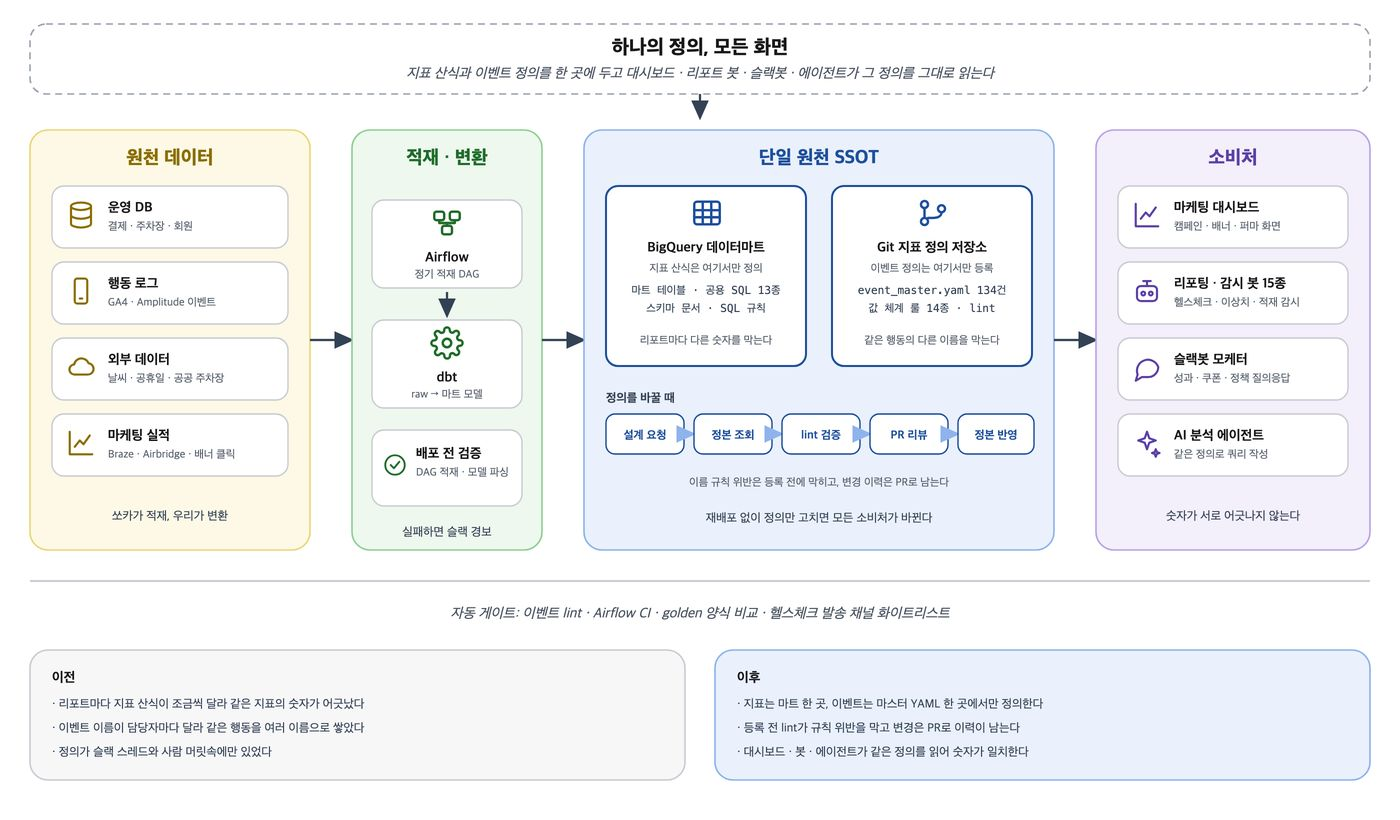
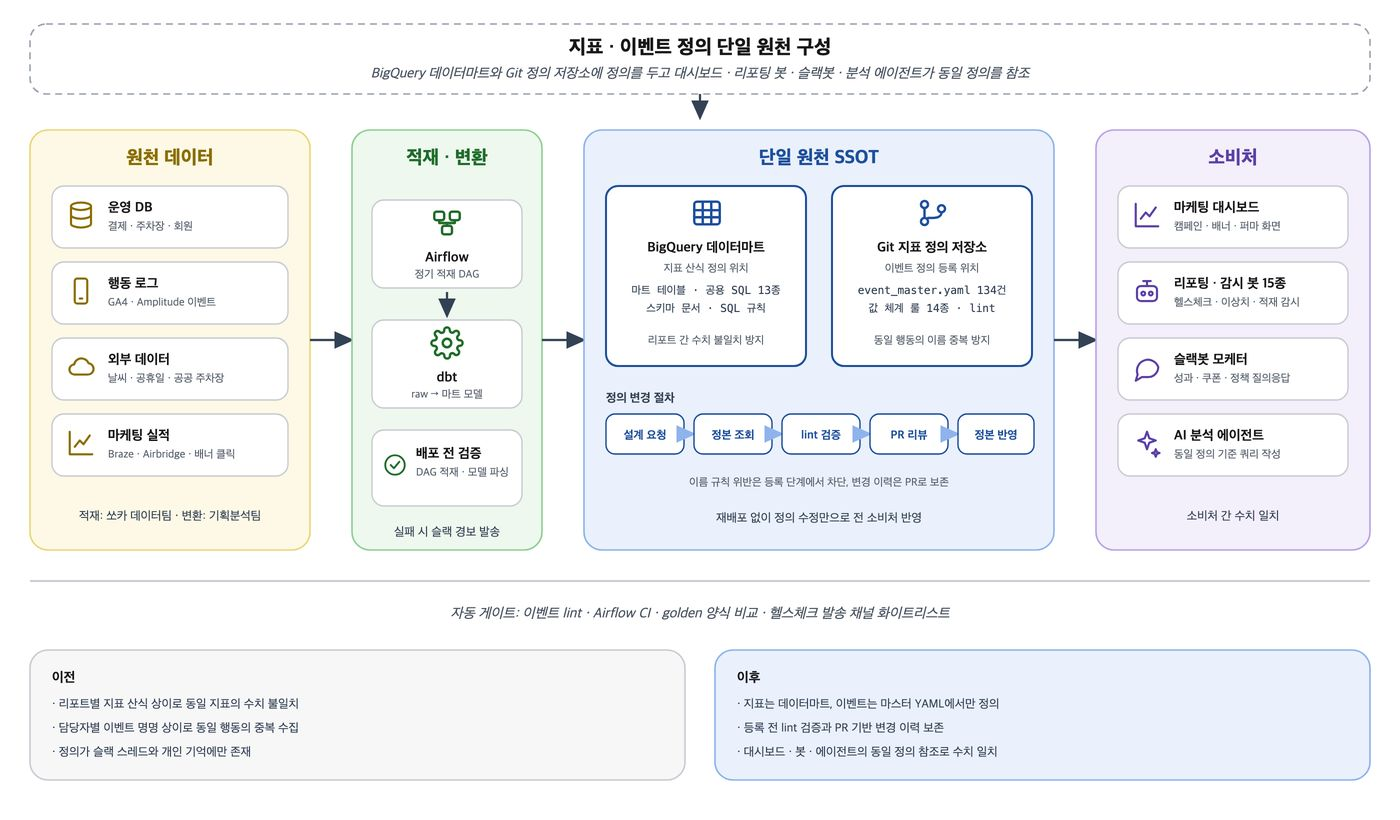
Report-style wording in diagrams, hide empty part panels under filters

diff --git a/build/diagrams/infra_arch.html b/build/diagrams/infra_arch.html
@@ -48,8 +48,8 @@
 
   <!-- 상단 배너 -->
   <rect x="30" y="24" width="1340" height="70" class="banner"/>
-  <text x="700" y="54" text-anchor="middle" class="bt">하나의 정의, 모든 화면</text>
-  <text x="700" y="78" text-anchor="middle" class="bs">지표 산식과 이벤트 정의를 한 곳에 두고 대시보드 · 리포트 봇 · 슬랙봇 · 에이전트가 그 정의를 그대로 읽는다</text>
+  <text x="700" y="54" text-anchor="middle" class="bt">지표 · 이벤트 정의 단일 원천 구성</text>
+  <text x="700" y="78" text-anchor="middle" class="bs">BigQuery 데이터마트와 Git 정의 저장소에 정의를 두고 대시보드 · 리포팅 봇 · 슬랙봇 · 분석 에이전트가 동일 정의를 참조</text>
   <path d="M700,94 L700,118" class="arrow"/>
 
   <!-- 원천 -->
@@ -59,7 +59,7 @@
   <rect x="52" y="262" width="236" height="62" class="node"/><use href="#i-phone" x="66" y="276" width="30" height="30" class="ic y"/><text x="108" y="288" class="nt">행동 로그</text><text x="108" y="306" class="ns">GA4 · Amplitude 이벤트</text>
   <rect x="52" y="338" width="236" height="62" class="node"/><use href="#i-cloud" x="66" y="352" width="30" height="30" class="ic y"/><text x="108" y="364" class="nt">외부 데이터</text><text x="108" y="382" class="ns">날씨 · 공휴일 · 공공 주차장</text>
   <rect x="52" y="414" width="236" height="62" class="node"/><use href="#i-chart" x="66" y="428" width="30" height="30" class="ic y"/><text x="108" y="440" class="nt">마케팅 실적</text><text x="108" y="458" class="ns">Braze · Airbridge · 배너 클릭</text>
-  <text x="170" y="520" text-anchor="middle" class="lab">쏘카가 적재, 우리가 변환</text>
+  <text x="170" y="520" text-anchor="middle" class="lab">적재: 쏘카 데이터팀 · 변환: 기획분석팀</text>
 
   <!-- 적재 · 변환 -->
   <path d="M310,340 L352,340" class="arrow"/>
@@ -69,7 +69,7 @@
   <path d="M447,292 L447,316" class="arrow"/>
   <rect x="372" y="320" width="150" height="88" class="node"/><use href="#i-gear" x="430" y="326" width="34" height="34" class="ic g"/><text x="447" y="382" text-anchor="middle" class="nt">dbt</text><text x="447" y="398" text-anchor="middle" class="ns">raw → 마트 모델</text>
   <rect x="372" y="430" width="150" height="76" class="node"/><use href="#i-check" x="382" y="452" width="26" height="26" class="ic g"/><text x="416" y="458" class="nt">배포 전 검증</text><text x="416" y="476" class="ns">DAG 적재 · 모델 파싱</text>
-  <text x="447" y="536" text-anchor="middle" class="lab">실패하면 슬랙 경보</text>
+  <text x="447" y="536" text-anchor="middle" class="lab">실패 시 슬랙 경보 발송</text>
 
   <!-- 단일 원천 -->
   <path d="M542,340 L584,340" class="arrow"/>
@@ -78,19 +78,19 @@
   <rect x="606" y="186" width="200" height="180" class="node hi"/>
   <use href="#i-table" x="690" y="196" width="34" height="34" class="ic b"/>
   <text x="706" y="252" text-anchor="middle" class="nt">BigQuery 데이터마트</text>
-  <text x="706" y="272" text-anchor="middle" class="ns">지표 산식은 여기서만 정의</text>
+  <text x="706" y="272" text-anchor="middle" class="ns">지표 산식 정의 위치</text>
   <text x="706" y="294" text-anchor="middle" class="mono">마트 테이블 · 공용 SQL 13종</text>
   <text x="706" y="312" text-anchor="middle" class="mono">스키마 문서 · SQL 규칙</text>
-  <text x="706" y="344" text-anchor="middle" class="ns">리포트마다 다른 숫자를 막는다</text>
+  <text x="706" y="344" text-anchor="middle" class="ns">리포트 간 수치 불일치 방지</text>
   <rect x="832" y="186" width="200" height="180" class="node hi"/>
   <use href="#i-git" x="916" y="196" width="34" height="34" class="ic b"/>
   <text x="932" y="252" text-anchor="middle" class="nt">Git 지표 정의 저장소</text>
-  <text x="932" y="272" text-anchor="middle" class="ns">이벤트 정의는 여기서만 등록</text>
+  <text x="932" y="272" text-anchor="middle" class="ns">이벤트 정의 등록 위치</text>
   <text x="932" y="294" text-anchor="middle" class="mono">event_master.yaml 134건</text>
   <text x="932" y="312" text-anchor="middle" class="mono">값 체계 룰 14종 · lint</text>
-  <text x="932" y="344" text-anchor="middle" class="ns">같은 행동의 다른 이름을 막는다</text>
+  <text x="932" y="344" text-anchor="middle" class="ns">동일 행동의 이름 중복 방지</text>
   <!-- 정의 변경 흐름 -->
-  <text x="606" y="402" class="lab" font-weight="700">정의를 바꿀 때</text>
+  <text x="606" y="402" class="lab" font-weight="700">정의 변경 절차</text>
   <rect x="606" y="414" width="78" height="40" class="step"/><text x="645" y="439" text-anchor="middle" class="stept">설계 요청</text>
   <path d="M684,434 L694,434" class="arrow soft"/>
   <rect x="694" y="414" width="78" height="40" class="step"/><text x="733" y="439" text-anchor="middle" class="stept">정본 조회</text>
@@ -100,8 +100,8 @@
   <rect x="870" y="414" width="78" height="40" class="step"/><text x="909" y="439" text-anchor="middle" class="stept">PR 리뷰</text>
   <path d="M948,434 L958,434" class="arrow soft"/>
   <rect x="958" y="414" width="76" height="40" class="step" fill="#1d4f9c"/><text x="996" y="439" text-anchor="middle" class="stept" fill="#fff">정본 반영</text>
-  <text x="819" y="486" text-anchor="middle" class="ns">이름 규칙 위반은 등록 전에 막히고, 변경 이력은 PR로 남는다</text>
-  <text x="819" y="522" text-anchor="middle" class="lab">재배포 없이 정의만 고치면 모든 소비처가 바뀐다</text>
+  <text x="819" y="486" text-anchor="middle" class="ns">이름 규칙 위반은 등록 단계에서 차단, 변경 이력은 PR로 보존</text>
+  <text x="819" y="522" text-anchor="middle" class="lab">재배포 없이 정의 수정만으로 전 소비처 반영</text>
 
   <!-- 소비처 -->
   <path d="M1054,340 L1096,340" class="arrow"/>
@@ -110,8 +110,8 @@
   <rect x="1118" y="186" width="230" height="62" class="node"/><use href="#i-chart" x="1132" y="200" width="30" height="30" class="ic p"/><text x="1174" y="212" class="nt">마케팅 대시보드</text><text x="1174" y="230" class="ns">캠페인 · 배너 · 퍼마 화면</text>
   <rect x="1118" y="262" width="230" height="62" class="node"/><use href="#i-bot" x="1132" y="276" width="30" height="30" class="ic p"/><text x="1174" y="288" class="nt">리포팅 · 감시 봇 15종</text><text x="1174" y="306" class="ns">헬스체크 · 이상치 · 적재 감시</text>
   <rect x="1118" y="338" width="230" height="62" class="node"/><use href="#i-chat" x="1132" y="352" width="30" height="30" class="ic p"/><text x="1174" y="364" class="nt">슬랙봇 모케터</text><text x="1174" y="382" class="ns">성과 · 쿠폰 · 정책 질의응답</text>
-  <rect x="1118" y="414" width="230" height="62" class="node"/><use href="#i-spark" x="1132" y="428" width="30" height="30" class="ic p"/><text x="1174" y="440" class="nt">AI 분석 에이전트</text><text x="1174" y="458" class="ns">같은 정의로 쿼리 작성</text>
-  <text x="1233" y="520" text-anchor="middle" class="lab">숫자가 서로 어긋나지 않는다</text>
+  <rect x="1118" y="414" width="230" height="62" class="node"/><use href="#i-spark" x="1132" y="428" width="30" height="30" class="ic p"/><text x="1174" y="440" class="nt">AI 분석 에이전트</text><text x="1174" y="458" class="ns">동일 정의 기준 쿼리 작성</text>
+  <text x="1233" y="520" text-anchor="middle" class="lab">소비처 간 수치 일치</text>
 
   <!-- 하단 거버넌스 -->
   <rect x="30" y="580" width="1340" height="2" fill="#c9ccd3"/>
@@ -119,80 +119,80 @@
   <!-- 이전/이후 한 줄 -->
   <rect x="30" y="650" width="655" height="130" class="pane gray"/>
   <text x="52" y="682" class="nt" fill="#5b6470">이전</text>
-  <text x="52" y="708" class="lab">· 리포트마다 지표 산식이 조금씩 달라 같은 지표의 숫자가 어긋났다</text>
-  <text x="52" y="732" class="lab">· 이벤트 이름이 담당자마다 달라 같은 행동을 여러 이름으로 쌓았다</text>
-  <text x="52" y="756" class="lab">· 정의가 슬랙 스레드와 사람 머릿속에만 있었다</text>
+  <text x="52" y="708" class="lab">· 리포트별 지표 산식 상이로 동일 지표의 수치 불일치</text>
+  <text x="52" y="732" class="lab">· 담당자별 이벤트 명명 상이로 동일 행동의 중복 수집</text>
+  <text x="52" y="756" class="lab">· 정의가 슬랙 스레드와 개인 기억에만 존재</text>
   <rect x="715" y="650" width="655" height="130" class="pane b"/>
   <text x="737" y="682" class="nt" fill="#1d4f9c">이후</text>
-  <text x="737" y="708" class="lab">· 지표는 마트 한 곳, 이벤트는 마스터 YAML 한 곳에서만 정의한다</text>
-  <text x="737" y="732" class="lab">· 등록 전 lint가 규칙 위반을 막고 변경은 PR로 이력이 남는다</text>
-  <text x="737" y="756" class="lab">· 대시보드 · 봇 · 에이전트가 같은 정의를 읽어 숫자가 일치한다</text>
+  <text x="737" y="708" class="lab">· 지표는 데이터마트, 이벤트는 마스터 YAML에서만 정의</text>
+  <text x="737" y="732" class="lab">· 등록 전 lint 검증과 PR 기반 변경 이력 보존</text>
+  <text x="737" y="756" class="lab">· 대시보드 · 봇 · 에이전트의 동일 정의 참조로 수치 일치</text>
 </svg>
 
 <svg id="gcs" width="1400" height="860" viewBox="0 0 1400 860" xmlns="http://www.w3.org/2000/svg">
   <!-- 쓰기 단계 -->
   <rect x="30" y="24" width="1340" height="330" rx="20" fill="#fbfbfd" stroke="#b9a3e6" stroke-width="1.6" stroke-dasharray="8 6"/>
-  <text x="54" y="340" class="ptitle p" font-size="17">쓰기 단계: 일이 끝나면 문서가 저장소에 들어간다</text>
+  <text x="54" y="340" class="ptitle p" font-size="17">쓰기 단계: 산출물의 저장소 적재</text>
   <rect x="54" y="48" width="330" height="270" class="pane g"/>
-  <text x="219" y="82" text-anchor="middle" class="ptitle g">만드는 쪽</text>
+  <text x="219" y="82" text-anchor="middle" class="ptitle g">생성 주체</text>
   <rect x="76" y="104" width="286" height="58" class="node"/><use href="#i-spark" x="90" y="118" width="30" height="30" class="ic g"/><text x="132" y="128" class="nt">CRM 에이전트</text><text x="132" y="146" class="ns">기획서 · 세팅 가이드 · 공지 초안</text>
   <rect x="76" y="174" width="286" height="58" class="node"/><use href="#i-gear" x="90" y="188" width="30" height="30" class="ic g"/><text x="132" y="198" class="nt">분석 스윕 (매일 08:00)</text><text x="132" y="216" class="ns">실험군 대비 대조군 · 퍼널 집계</text>
-  <rect x="76" y="244" width="286" height="58" class="node"/><use href="#i-check" x="90" y="258" width="30" height="30" class="ic g"/><text x="132" y="268" class="nt">사람의 결정</text><text x="132" y="286" class="ns">검토 · 승인 · 채택과 비채택 사유</text>
+  <rect x="76" y="244" width="286" height="58" class="node"/><use href="#i-check" x="90" y="258" width="30" height="30" class="ic g"/><text x="132" y="268" class="nt">검토 · 승인</text><text x="132" y="286" class="ns">채택 여부와 사유 기록</text>
   <path d="M384,183 L430,183" class="arrow"/>
   <!-- 저장소 -->
   <rect x="430" y="48" width="540" height="270" class="pane b"/>
   <text x="700" y="82" text-anchor="middle" class="ptitle b">통합 저장소 (GCS 버킷)</text>
   <rect x="452" y="100" width="300" height="200" class="node hi"/>
-  <use href="#i-doc" x="464" y="110" width="22" height="22" class="ic b"/><text x="494" y="127" class="nt">campaigns/ 캠페인마다 한 폴더</text>
+  <use href="#i-doc" x="464" y="110" width="22" height="22" class="ic b"/><text x="494" y="127" class="nt">campaigns/ 캠페인별 폴더</text>
   <text x="494" y="152" class="mono">기획서 ········ 목적 · 타겟 · 실험 설계</text>
   <text x="494" y="174" class="mono">세팅 가이드 ··· 카피 · 미리보기 · 조건</text>
   <text x="494" y="196" class="mono">분석 보고 ····· 증분 · 퍼널 · 리포트</text>
   <text x="494" y="218" class="mono">카드(meta) ···· 상태 · KPI · 대조군</text>
   <text x="494" y="240" class="mono">승인 기록 ····· 누가 · 언제 · 왜</text>
-  <text x="494" y="276" class="ns">사람 문서와 에이전트 산출물이 같은 자리에 쌓인다</text>
+  <text x="494" y="276" class="ns">작성 주체와 무관하게 동일 구조로 적재</text>
   <rect x="768" y="100" width="180" height="60" class="node"/><use href="#i-doc" x="778" y="116" width="26" height="26" class="ic b"/><text x="812" y="124" class="nt">knowledge/</text><text x="812" y="142" class="ns">정책 · 가이드 · 규칙</text>
   <rect x="768" y="170" width="180" height="60" class="node"/><use href="#i-doc" x="778" y="186" width="26" height="26" class="ic b"/><text x="812" y="194" class="nt">recommendations/</text><text x="812" y="212" class="ns">주간 추천 · 채택 사유</text>
-  <rect x="768" y="240" width="180" height="60" class="node"/><use href="#i-table" x="778" y="256" width="26" height="26" class="ic b"/><text x="812" y="264" class="nt">_meta/ 색인</text><text x="812" y="282" class="ns">폴더를 훑어 자동 재작성</text>
+  <rect x="768" y="240" width="180" height="60" class="node"/><use href="#i-table" x="778" y="256" width="26" height="26" class="ic b"/><text x="812" y="264" class="nt">_meta/ 색인</text><text x="812" y="282" class="ns">폴더 순회 후 자동 재작성</text>
   <path d="M970,183 L1016,183" class="arrow"/>
   <!-- 즉시 반영 -->
   <rect x="1016" y="48" width="330" height="270" class="pane y"/>
-  <text x="1181" y="82" text-anchor="middle" class="ptitle y">저장하면 끝</text>
+  <text x="1181" y="82" text-anchor="middle" class="ptitle y">저장 즉시 반영</text>
   <rect x="1038" y="104" width="286" height="58" class="node"/><use href="#i-chart" x="1052" y="118" width="30" height="30" class="ic y"/><text x="1094" y="128" class="nt">대시보드 카드 자동 등록</text><text x="1094" y="146" class="ns">캘린더 · KPI · 상태 갱신</text>
   <rect x="1038" y="174" width="286" height="58" class="node"/><use href="#i-chat" x="1052" y="188" width="30" height="30" class="ic y"/><text x="1094" y="198" class="nt">슬랙 공지 · 알림</text><text x="1094" y="216" class="ns">전사 채널 · 담당자 DM</text>
-  <rect x="1038" y="244" width="286" height="58" class="node"/><use href="#i-check" x="1052" y="258" width="30" height="30" class="ic y"/><text x="1094" y="268" class="nt">따로 등록할 일이 없다</text><text x="1094" y="286" class="ns">파일이 곧 운영 데이터</text>
+  <rect x="1038" y="244" width="286" height="58" class="node"/><use href="#i-check" x="1052" y="258" width="30" height="30" class="ic y"/><text x="1094" y="268" class="nt">별도 등록 절차 없음</text><text x="1094" y="286" class="ns">파일 자체가 운영 데이터</text>
 
   <!-- 연결 화살표 (저장소 → 읽기 단계) -->
   <path d="M700,354 L700,398" class="arrow"/>
 
   <!-- 읽기 단계 -->
   <rect x="30" y="398" width="1340" height="300" rx="20" fill="#fbfbfd" stroke="#8fb3ec" stroke-width="1.6" stroke-dasharray="8 6"/>
-  <text x="54" y="684" class="ptitle b" font-size="17">읽기 단계: 같은 파일을 읽으니 같은 숫자와 같은 맥락으로 답한다</text>
+  <text x="54" y="684" class="ptitle b" font-size="17">읽기 단계: 동일 원천 참조로 수치 · 맥락 일치</text>
   <rect x="54" y="422" width="240" height="230" class="pane gray"/>
   <text x="174" y="456" text-anchor="middle" class="ptitle" fill="#5b6470">질문</text>
   <rect x="76" y="478" width="196" height="150" class="node"/>
   <text x="174" y="512" text-anchor="middle" class="nt">"이번 주 캠페인 성과는?"</text>
   <text x="174" y="540" text-anchor="middle" class="nt">"9월 드로우 기획 배경은?"</text>
-  <text x="174" y="568" text-anchor="middle" class="nt">"다음 주 뭘 보내야 하지?"</text>
+  <text x="174" y="568" text-anchor="middle" class="nt">"차주 발송 후보는?"</text>
   <text x="174" y="606" text-anchor="middle" class="ns">마케터 · 팀장 · 유관 부서</text>
   <path d="M294,537 L340,537" class="arrow"/>
   <rect x="340" y="422" width="700" height="230" class="pane p"/>
-  <text x="690" y="456" text-anchor="middle" class="ptitle p">읽는 쪽 (저장소를 직접 읽음 · 별도 색인 없음)</text>
-  <rect x="362" y="482" width="210" height="140" class="node"/><use href="#i-chat" x="452" y="492" width="30" height="30" class="ic p"/><text x="467" y="546" text-anchor="middle" class="nt">슬랙봇 모케터</text><text x="467" y="566" text-anchor="middle" class="ns">기획서 · 분석 보고를 읽어</text><text x="467" y="584" text-anchor="middle" class="ns">성과와 배경을 답한다</text>
-  <rect x="585" y="482" width="210" height="140" class="node"/><use href="#i-chart" x="675" y="492" width="30" height="30" class="ic p"/><text x="690" y="546" text-anchor="middle" class="nt">마케팅 대시보드</text><text x="690" y="566" text-anchor="middle" class="ns">카드와 색인을 읽어</text><text x="690" y="584" text-anchor="middle" class="ns">캘린더 · KPI를 그린다</text>
-  <rect x="808" y="482" width="210" height="140" class="node"/><use href="#i-spark" x="898" y="492" width="30" height="30" class="ic p"/><text x="913" y="546" text-anchor="middle" class="nt">AI 에이전트</text><text x="913" y="566" text-anchor="middle" class="ns">과거 기획 · 결과를 찾아 읽어</text><text x="913" y="584" text-anchor="middle" class="ns">다음 캠페인을 설계한다</text>
+  <text x="690" y="456" text-anchor="middle" class="ptitle p">참조 주체 (저장소 직접 참조 · 별도 색인 없음)</text>
+  <rect x="362" y="482" width="210" height="140" class="node"/><use href="#i-chat" x="452" y="492" width="30" height="30" class="ic p"/><text x="467" y="546" text-anchor="middle" class="nt">슬랙봇 모케터</text><text x="467" y="566" text-anchor="middle" class="ns">기획서 · 분석 보고 참조</text><text x="467" y="584" text-anchor="middle" class="ns">성과 · 기획 배경 응답</text>
+  <rect x="585" y="482" width="210" height="140" class="node"/><use href="#i-chart" x="675" y="492" width="30" height="30" class="ic p"/><text x="690" y="546" text-anchor="middle" class="nt">마케팅 대시보드</text><text x="690" y="566" text-anchor="middle" class="ns">카드 · 색인 참조</text><text x="690" y="584" text-anchor="middle" class="ns">캘린더 · KPI 구성</text>
+  <rect x="808" y="482" width="210" height="140" class="node"/><use href="#i-spark" x="898" y="492" width="30" height="30" class="ic p"/><text x="913" y="546" text-anchor="middle" class="nt">AI 에이전트</text><text x="913" y="566" text-anchor="middle" class="ns">과거 기획 · 결과 참조</text><text x="913" y="584" text-anchor="middle" class="ns">차기 캠페인 설계</text>
   <path d="M1040,537 L1086,537" class="arrow"/>
   <rect x="1086" y="422" width="260" height="230" class="pane r"/>
-  <text x="1216" y="456" text-anchor="middle" class="ptitle r">답</text>
+  <text x="1216" y="456" text-anchor="middle" class="ptitle r">응답</text>
   <rect x="1108" y="478" width="216" height="150" class="node"/>
-  <text x="1216" y="510" text-anchor="middle" class="nt">같은 숫자</text><text x="1216" y="530" text-anchor="middle" class="ns">누가 물어도 같은 분석 보고 기준</text>
-  <text x="1216" y="562" text-anchor="middle" class="nt">같은 맥락</text><text x="1216" y="582" text-anchor="middle" class="ns">왜 그렇게 결정했는지까지</text>
-  <text x="1216" y="612" text-anchor="middle" class="ns">출처 파일과 시각을 함께 표기</text>
+  <text x="1216" y="510" text-anchor="middle" class="nt">동일 수치</text><text x="1216" y="530" text-anchor="middle" class="ns">질문자와 무관하게 분석 보고 기준</text>
+  <text x="1216" y="562" text-anchor="middle" class="nt">동일 맥락</text><text x="1216" y="582" text-anchor="middle" class="ns">결정 사유 포함</text>
+  <text x="1216" y="612" text-anchor="middle" class="ns">출처 파일 · 시각 병기</text>
 
   <!-- 앞으로 -->
   <rect x="30" y="724" width="1340" height="112" class="ribbon"/>
-  <text x="54" y="756" class="ptitle o" font-size="17">이 저장소 위에서 다음에 할 수 있는 것</text>
-  <use href="#i-spark" x="54" y="780" width="26" height="26" class="ic o"/><text x="90" y="792" class="nt">추천의 자기 학습</text><text x="90" y="812" class="ns">채택 · 비채택 사유와 성과가 쌓이면 다음 주 추천 점수가 그 결과를 반영한다</text>
-  <use href="#i-chart" x="520" y="780" width="26" height="26" class="ic o"/><text x="556" y="792" class="nt">발송 전 성과 예측</text><text x="556" y="812" class="ns">같은 양식으로 쌓인 수백 건의 기획 · 결과를 근거로 기대 순증을 제시한다</text>
-  <use href="#i-doc" x="986" y="780" width="26" height="26" class="ic o"/><text x="1022" y="792" class="nt">기획안 자동 초안</text><text x="1022" y="812" class="ns">비슷한 과거 캠페인을 찾아 목적 · 타겟 · 소재를 채운 초안을 먼저 낸다</text>
+  <text x="54" y="756" class="ptitle o" font-size="17">향후 확장 과제</text>
+  <use href="#i-spark" x="54" y="780" width="26" height="26" class="ic o"/><text x="90" y="792" class="nt">추천 점수 보정</text><text x="90" y="812" class="ns">채택 여부 · 사유 · 성과 누적분을 차기 추천 점수에 반영</text>
+  <use href="#i-chart" x="520" y="780" width="26" height="26" class="ic o"/><text x="556" y="792" class="nt">발송 전 성과 예측</text><text x="556" y="812" class="ns">동일 양식으로 누적된 기획 · 결과 기반 기대 순증 산출</text>
+  <use href="#i-doc" x="986" y="780" width="26" height="26" class="ic o"/><text x="1022" y="792" class="nt">기획안 자동 초안</text><text x="1022" y="812" class="ns">유사 캠페인 검색 후 목적 · 타겟 · 소재 초안 작성</text>
 </svg>
 </body></html>

diff --git a/build/diagrams/infra_v2.html b/build/diagrams/infra_v2.html
@@ -55,14 +55,14 @@
 <!-- 1. 이벤트 로그 설계: 현행 / 프레임워크 적용 후 -->
 <section class="page" id="eventlog">
   <div class="eyebrow">이벤트 로그 설계 프레임워크</div>
-  <h1>기능 목록에서 출발하던 로그 설계를 비즈니스 질문에서 출발하도록 바꿨습니다</h1>
-  <p class="sub">요구사항 정의서와 유저플로우 링크만 넣으면 KPI 체계와 화면×이벤트 설계안이 표준 양식으로 나오고, 자료로 알 수 없는 것만 확인 요청으로 돌아옵니다.</p>
+  <h1>이벤트 로그 설계 프레임워크 적용 전후 비교</h1>
+  <p class="sub">요구사항 정의서 · 유저플로우 입력으로 KPI 체계와 화면×이벤트 설계안을 표준 양식으로 산출, 미확인 항목은 확인 요청으로 회신</p>
   <div class="stage">
     <div class="card"><h3><span class="n">01</span>설계 출발점</h3>
       <div class="face asis"><div class="lab">현행</div>
-        <div class="row"><b>출발:</b> 화면에 있는 버튼·요소 목록</div>
+        <div class="row"><b>출발:</b> 화면 요소 목록</div>
         <div class="row"><b>수집 범위:</b> 요소별 전수 수집</div>
-        <div class="row"><b>KPI 연결:</b> 수집 후 사후에 찾음</div></div>
+        <div class="row"><b>KPI 연결:</b> 수집 후 사후 연결</div></div>
       <div class="face tobe"><div class="lab">프레임워크 적용 후</div>
         <div class="row"><b>출발:</b> 비즈니스 질문과 가설</div>
         <div class="row"><b>수집 범위:</b> KPI에 직결되는 이벤트만</div>
@@ -70,79 +70,23 @@
     <div class="card"><h3><span class="n">02</span>설계 과정</h3>
       <div class="face asis"><div class="lab">현행</div>
         <div class="row"><b>이름 규칙:</b> 담당자마다 제각각</div>
-        <div class="row"><b>기존 이벤트:</b> 있는지 모른 채 새로 만듦</div>
-        <div class="row"><b>검증:</b> 적재 후 수기 확인</div></div>
+        <div class="row"><b>기존 이벤트:</b> 기존 이벤트 미확인 상태로 신규 생성</div>
+        <div class="row"><b>검증:</b> 적재 후 수기 검증</div></div>
       <div class="face tobe"><div class="lab">프레임워크 적용 후</div>
         <div class="row"><b>이름 규칙:</b> view·click 2종, 의미는 파라미터</div>
         <div class="row"><b>기존 이벤트:</b> 정본 조회 후 재사용 우선</div>
-        <div class="row"><b>검증:</b> 등록 전 자동 lint, 실제 수집 여부 조회</div></div></div>
+        <div class="row"><b>검증:</b> 등록 전 lint 검증 · 실제 수집 여부 조회</div></div></div>
     <div class="card"><h3><span class="n">03</span>산출물과 소통</h3>
       <div class="face asis"><div class="lab">현행</div>
-        <div class="row"><b>산출물:</b> 엑셀 표, 문서마다 양식 다름</div>
-        <div class="row"><b>빈칸 처리:</b> 추측으로 채움</div>
-        <div class="row"><b>소요:</b> 설계 회의 여러 차례</div></div>
+        <div class="row"><b>산출물:</b> 엑셀 표 · 문서별 양식 상이</div>
+        <div class="row"><b>빈칸 처리:</b> 추정값으로 작성</div>
+        <div class="row"><b>소요:</b> 설계 회의 다회</div></div>
       <div class="face tobe"><div class="lab">프레임워크 적용 후</div>
         <div class="row"><b>산출물:</b> 표준 양식(KPI 체계·화면×이벤트·등록안)</div>
-        <div class="row"><b>빈칸 처리:</b> 확인 필요 목록으로 되물음</div>
+        <div class="row"><b>빈칸 처리:</b> 확인 필요 목록으로 회신</div>
         <div class="row"><b>소요:</b> 자료 링크 입력 후 설계안 즉시 생성</div></div></div>
   </div>
 </section>
 
-<!-- 2. 데이터마트 · Git 기반 지표 SSOT -->
-<section class="page" id="ssot">
-  <div class="eyebrow">데이터마트 · Git 기반 지표 SSOT</div>
-  <h1>지표와 이벤트 정의를 한 곳에 두고, 모든 화면이 같은 정의를 읽습니다</h1>
-  <div class="tldr">리포트마다 산식이 달라 숫자가 어긋나던 문제를 <span class="hl">정의의 단일 원천</span>으로 풀었습니다. 지표는 BigQuery 마트 한 곳, 이벤트는 Git 마스터 한 곳에서만 정의하고, 대시보드·리포트 봇·슬랙봇·에이전트가 그 정의를 그대로 가져다 씁니다.</div>
-  <div class="flow">
-    <div class="step"><div class="k">원천</div><div class="t">운영 데이터와 로그</div><div class="d">결제·주차장·회원 DB, GA4·Amplitude 행동 로그, 날씨·공휴일 외부 데이터</div></div>
-    <div class="step"><div class="k">적재 · 변환</div><div class="t">Airflow + dbt</div><div class="d">원천을 마트로 정기 변환. 배포 전 DAG·모델 파싱 검증</div></div>
-    <div class="step core"><div class="k">단일 원천</div><div class="t">BigQuery 마트 · Git 정의 저장소</div><div class="d">지표 산식은 마트에, 이벤트 정의는 <span class="mono">event_master.yaml</span>에. 등록 전 lint가 규칙을 검사하고 변경은 PR로 남습니다</div></div>
-    <div class="step"><div class="k">소비처</div><div class="t">같은 정의를 읽는 화면들</div><div class="d">마케팅 대시보드, 리포팅·감시 봇 15종, 슬랙봇 모케터, AI 분석 에이전트</div></div>
-  </div>
-  <div class="two">
-    <div>
-      <table class="spec">
-        <tr><th>정의 항목</th><th>어디에 있나</th><th>무엇을 막나</th></tr>
-        <tr><td>지표 산식</td><td>BigQuery 마트 테이블 · 공용 SQL 13종</td><td>리포트마다 다른 숫자</td></tr>
-        <tr><td>이벤트 이름·파라미터</td><td>이벤트 마스터 134건 · 값 체계 룰 14종</td><td>같은 행동을 다른 이름으로 수집</td></tr>
-        <tr><td>변경 이력</td><td>Git PR · CODEOWNERS 리뷰</td><td>누가 왜 바꿨는지 모르는 정의</td></tr>
-        <tr><td>등록 검증</td><td>lint 자동 검사 · 오류면 배포 차단</td><td>규칙 위반 이벤트의 유입</td></tr>
-      </table>
-    </div>
-    <div class="box"><div style="font-size:12px;letter-spacing:.12em;text-transform:uppercase;color:var(--ink3);font-weight:700;margin-bottom:8px">정의를 바꿀 때</div>
-      <ul class="kp"><li><b>설계 요청</b>: 새 지표나 이벤트가 필요해지면</li><li><b>에이전트 설계</b>: 정본을 조회해 재사용 여부를 먼저 판단</li><li><b>lint 검증</b>: 이름 규칙·값 체계·중복을 자동 검사</li><li><b>PR 리뷰·머지</b>: 담당자 리뷰 후 정본 반영</li><li><b>즉시 적용</b>: 모든 소비처가 새 정의를 읽음</li></ul></div>
-  </div>
-</section>
 
-<!-- 3. CRM 분석 · 의사결정 통합 저장소 -->
-<section class="page" id="gcs">
-  <div class="eyebrow">CRM 분석 · 의사결정 통합 저장소</div>
-  <h1>캠페인의 기획, 실행, 분석, 결정을 한 폴더에 쌓습니다</h1>
-  <p class="sub">저장소가 곧 운영 데이터입니다. 사람이 만든 문서든 에이전트가 만든 분석이든 같은 자리에 들어가고, 슬랙봇·대시보드·에이전트는 그 파일을 직접 읽어 같은 숫자와 같은 맥락으로 답합니다.</p>
-  <div class="two" style="grid-template-columns:.8fr 1.2fr">
-    <div class="tree">
-      <b>campaigns/</b> <span class="c">캠페인마다 한 폴더</span><br>
-      &nbsp;&nbsp;기획서 <span class="c">목적 · 타겟 · 실험 설계</span><br>
-      &nbsp;&nbsp;세팅 가이드 <span class="c">카피 · 미리보기 · 발송 조건</span><br>
-      &nbsp;&nbsp;분석 보고 <span class="c">실험군 대비 대조군 · 퍼널</span><br>
-      &nbsp;&nbsp;카드 <span class="c">상태 · KPI · 대조군 비율</span><br>
-      <b>knowledge/</b> <span class="c">정책 · 가이드 · 운영 규칙</span><br>
-      <b>approvals/</b> <span class="c">검토 요청과 승인 기록</span><br>
-      <b>recommendations/</b> <span class="c">주간 추천과 채택 · 비채택 사유</span>
-    </div>
-    <div class="tiles">
-      <div class="tile co"><div class="ic">📂</div><div class="t">저장하면 끝</div><div class="d">기획서를 폴더에 넣는 순간 대시보드 카드가 생기고 슬랙봇이 같은 문서로 답합니다. 따로 등록하는 일이 없습니다</div></div>
-      <div class="tile"><div class="ic">🧭</div><div class="t">결정의 이유가 남는다</div><div class="d">누가 왜 채택했는지, 어떤 후보를 왜 보류했는지가 캠페인 옆에 기록됩니다</div></div>
-      <div class="tile"><div class="ic">🤖</div><div class="t">AI가 맥락을 읽는다</div><div class="d">에이전트가 과거 기획과 분석을 직접 찾아 읽고 다음 캠페인을 설계합니다. 검색 색인을 따로 두지 않습니다</div></div>
-    </div>
-  </div>
-  <div class="next">
-    <h2>이 저장소 위에서 다음에 할 수 있는 것</h2>
-    <ul class="kp">
-      <li><b>주간 추천의 자기 학습</b>: 채택·비채택 사유와 성과가 쌓이면 다음 주 추천 점수가 그 결과를 반영한다</li>
-      <li><b>성과 예측</b>: 같은 양식으로 쌓인 수백 건의 기획·결과를 근거로 발송 전에 기대 순증을 제시한다</li>
-      <li><b>기획안 자동 초안</b>: 비슷한 과거 캠페인을 찾아 목적·타겟·소재를 채운 초안을 먼저 내놓는다</li>
-    </ul>
-  </div>
-</section>
 </body></html>

diff --git a/build/diagrams/crm_swimlane.html b/build/diagrams/crm_swimlane.html
@@ -24,7 +24,7 @@
 <svg width="1400" height="760" viewBox="0 0 1400 760" xmlns="http://www.w3.org/2000/svg">
   <defs><marker id="ah" markerWidth="8" markerHeight="8" refX="7" refY="4" orient="auto"><path d="M0,0 L8,4 L0,8 z" fill="#a1a1aa"/></marker></defs>
   <text x="40" y="38" class="title">CRM 캠페인 에이전틱 워크플로우</text>
-  <text x="40" y="58" class="sub">아이디어 한 줄에서 발송·성과분석까지. 사람은 네 개의 게이트에서만 결정하고, 나머지는 에이전트가 도구를 호출해 처리한다.</text>
+  <text x="40" y="58" class="sub">기획부터 발송 · 성과분석까지의 처리 흐름. 사람은 게이트 4곳에서 결정, 나머지는 에이전트가 도구 호출로 처리</text>
 
   <!-- phase header -->
   <g class="phase">
@@ -43,8 +43,8 @@
     <rect x="40" y="120" width="1320" height="170" fill="#fffdf5" stroke="#e4e4e7"/>
     <rect x="40" y="290" width="1320" height="240" fill="#fff" stroke="#e4e4e7"/>
     <rect x="40" y="530" width="1320" height="210" fill="#fafafa" stroke="#e4e4e7"/>
-    <text x="58" y="150" class="lane-label">마케터</text><text x="58" y="168" class="lane-sub">결정만 한다</text>
-    <text x="58" y="320" class="lane-label">CRM 에이전트</text><text x="58" y="338" class="lane-sub">Claude Code 스킬</text>
+    <text x="58" y="150" class="lane-label">마케터</text><text x="58" y="168" class="lane-sub">결정 담당</text>
+    <text x="58" y="320" class="lane-label">CRM 에이전트</text><text x="58" y="338" class="lane-sub">Claude Code 스킬 기반</text>
     <text x="58" y="560" class="lane-label">데이터 · 도구</text><text x="58" y="578" class="lane-sub">MCP 호출</text>
   </g>
 
@@ -68,9 +68,9 @@
   <!-- Phase 3 -->
   <g>
     <rect x="795" y="170" width="120" height="48" rx="10" class="gate"/><text x="855" y="190" text-anchor="middle" class="t">게이트 ③ 공지글</text><text x="855" y="206" text-anchor="middle" class="s">DM 미리보기 확인</text>
-    <rect x="940" y="170" width="120" height="48" rx="10" class="gate"/><text x="1000" y="190" text-anchor="middle" class="t">게이트 ④ 발송</text><text x="1000" y="206" text-anchor="middle" class="s">"발송 GO" 한마디</text>
+    <rect x="940" y="170" width="120" height="48" rx="10" class="gate"/><text x="1000" y="190" text-anchor="middle" class="t">게이트 ④ 발송</text><text x="1000" y="206" text-anchor="middle" class="s">발송 승인</text>
     <rect x="795" y="330" width="120" height="52" rx="8" class="box agent"/><text x="855" y="352" text-anchor="middle" class="t">공지 초안</text><text x="855" y="368" text-anchor="middle" class="s">전사 · CS 채널용</text>
-    <rect x="940" y="330" width="120" height="52" rx="8" class="box agent"/><text x="1000" y="352" text-anchor="middle" class="t">예약 발송</text><text x="1000" y="368" text-anchor="middle" class="s">클라우드에서 시각 맞춰</text>
+    <rect x="940" y="330" width="120" height="52" rx="8" class="box agent"/><text x="1000" y="352" text-anchor="middle" class="t">예약 발송</text><text x="1000" y="368" text-anchor="middle" class="s">지정 시각 예약 발송</text>
     <rect x="795" y="600" width="120" height="52" rx="8" class="box tool"/><text x="855" y="622" text-anchor="middle" class="t">Slack</text><text x="855" y="638" text-anchor="middle" class="s">공지 게시 · 이미지 첨부</text>
     <rect x="940" y="600" width="120" height="52" rx="8" class="box tool"/><text x="1000" y="622" text-anchor="middle" class="t">Cloud Run</text><text x="1000" y="638" text-anchor="middle" class="s">예약 발송 · 상태 갱신</text>
   </g>

diff --git a/build/template.html b/build/template.html
@@ -93,8 +93,8 @@
   .fgrp button .dot{display:none}
   .fdiv{width:1px;height:18px;background:#e6e6ea;margin:0 6px}
   @media(max-width:700px){.fctl{border-radius:20px;padding:5px}.fgrp{flex-wrap:wrap;justify-content:center}.fgrp .pill{display:none}.fgrp button.on{background:var(--text)}}
-  .card.yr-hide,.part-head.yr-hide,.grid.yr-hide,.sec.yr-hide{display:none}
-  .card.yr-hide,.part-head.yr-hide,.grid.yr-hide,.sec.yr-hide{display:none}
+  .card.yr-hide,.part.yr-hide,.sec.yr-hide{display:none}
+  .card.yr-hide,.part.yr-hide,.sec.yr-hide{display:none}
   .cover-search{max-width:400px;margin:0 auto 12px}
   .cover-search button{display:flex;align-items:center;gap:6px;width:100%;padding:10px 14px;border-radius:10px;border:1px solid var(--border);background:var(--alt);cursor:pointer;font-family:inherit;font-size:12px;color:var(--muted);transition:all .2s}
   .cover-search button:hover{border-color:#bbb}
@@ -322,7 +322,7 @@ document.addEventListener('keydown',e=>{if(e.key==='Escape'&&document.getElement
   function apply(){
     host.querySelectorAll('.fgrp').forEach(g=>{const v=g.dataset.k==='year'?year:sec;g.querySelectorAll('button').forEach(b=>b.classList.toggle('on',b.dataset.v===v));movePill(g)});
     cards.forEach(c=>{const s=c.closest('.sec').dataset.sec;c.classList.toggle('yr-hide',(year!=='all'&&c.dataset.year!==year)||(sec!=='all'&&s!==sec))});
-    document.querySelectorAll('.grid').forEach(g=>{const vis=[...g.querySelectorAll('.card')].filter(c=>!c.classList.contains('yr-hide'));g.classList.toggle('yr-hide',!vis.length);const ph=g.previousElementSibling;if(ph&&ph.classList.contains('part-head')){ph.classList.toggle('yr-hide',!vis.length);const cnt=ph.querySelector('.part-count');if(cnt)cnt.textContent=vis.length}});
+    document.querySelectorAll('.part').forEach(pt=>{const vis=[...pt.querySelectorAll('.card')].filter(c=>!c.classList.contains('yr-hide'));pt.classList.toggle('yr-hide',!vis.length);const cnt=pt.querySelector('.part-count');if(cnt)cnt.textContent=vis.length});
     document.querySelectorAll('.sec').forEach(s=>s.classList.toggle('yr-hide',![...s.querySelectorAll('.card')].some(c=>!c.classList.contains('yr-hide'))));
   }
   host.addEventListener('click',e=>{const b=e.target.closest('button');if(!b)return;if(b.closest('.fgrp').dataset.k==='year')year=b.dataset.v;else sec=b.dataset.v;apply()});

diff --git a/index.html b/index.html
@@ -93,8 +93,8 @@
   .fgrp button .dot{display:none}
   .fdiv{width:1px;height:18px;background:#e6e6ea;margin:0 6px}
   @media(max-width:700px){.fctl{border-radius:20px;padding:5px}.fgrp{flex-wrap:wrap;justify-content:center}.fgrp .pill{display:none}.fgrp button.on{background:var(--text)}}
-  .card.yr-hide,.part-head.yr-hide,.grid.yr-hide,.sec.yr-hide{display:none}
-  .card.yr-hide,.part-head.yr-hide,.grid.yr-hide,.sec.yr-hide{display:none}
+  .card.yr-hide,.part.yr-hide,.sec.yr-hide{display:none}
+  .card.yr-hide,.part.yr-hide,.sec.yr-hide{display:none}
   .cover-search{max-width:400px;margin:0 auto 12px}
   .cover-search button{display:flex;align-items:center;gap:6px;width:100%;padding:10px 14px;border-radius:10px;border:1px solid var(--border);background:var(--alt);cursor:pointer;font-family:inherit;font-size:12px;color:var(--muted);transition:all .2s}
   .cover-search button:hover{border-color:#bbb}
@@ -609,7 +609,7 @@ document.addEventListener('keydown',e=>{if(e.key==='Escape'&&document.getElement
   function apply(){
     host.querySelectorAll('.fgrp').forEach(g=>{const v=g.dataset.k==='year'?year:sec;g.querySelectorAll('button').forEach(b=>b.classList.toggle('on',b.dataset.v===v));movePill(g)});
     cards.forEach(c=>{const s=c.closest('.sec').dataset.sec;c.classList.toggle('yr-hide',(year!=='all'&&c.dataset.year!==year)||(sec!=='all'&&s!==sec))});
-    document.querySelectorAll('.grid').forEach(g=>{const vis=[...g.querySelectorAll('.card')].filter(c=>!c.classList.contains('yr-hide'));g.classList.toggle('yr-hide',!vis.length);const ph=g.previousElementSibling;if(ph&&ph.classList.contains('part-head')){ph.classList.toggle('yr-hide',!vis.length);const cnt=ph.querySelector('.part-count');if(cnt)cnt.textContent=vis.length}});
+    document.querySelectorAll('.part').forEach(pt=>{const vis=[...pt.querySelectorAll('.card')].filter(c=>!c.classList.contains('yr-hide'));pt.classList.toggle('yr-hide',!vis.length);const cnt=pt.querySelector('.part-count');if(cnt)cnt.textContent=vis.length});
     document.querySelectorAll('.sec').forEach(s=>s.classList.toggle('yr-hide',![...s.querySelectorAll('.card')].some(c=>!c.classList.contains('yr-hide'))));
   }
   host.addEventListener('click',e=>{const b=e.target.closest('button');if(!b)return;if(b.closest('.fgrp').dataset.k==='year')year=b.dataset.v;else sec=b.dataset.v;apply()});
